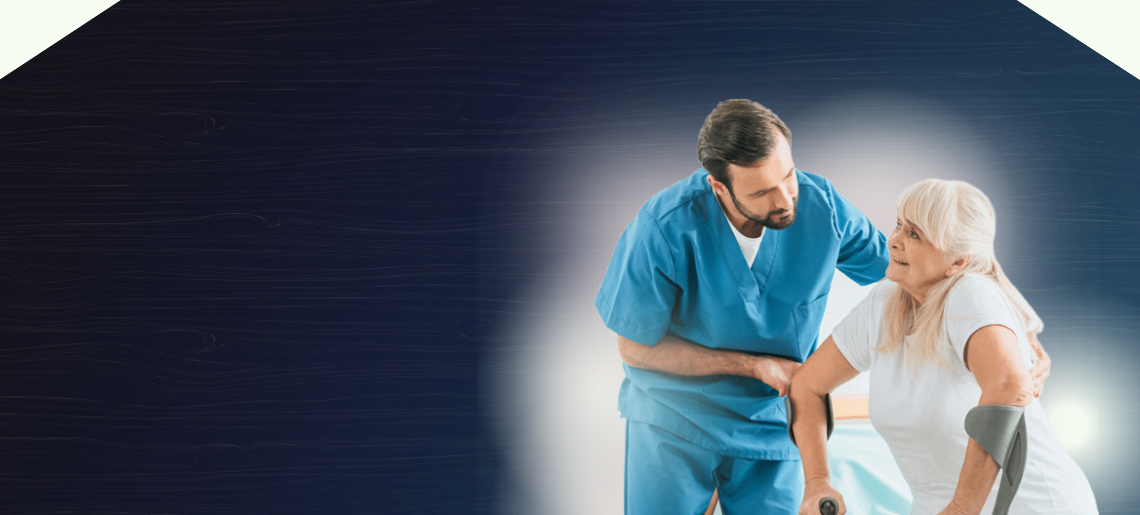
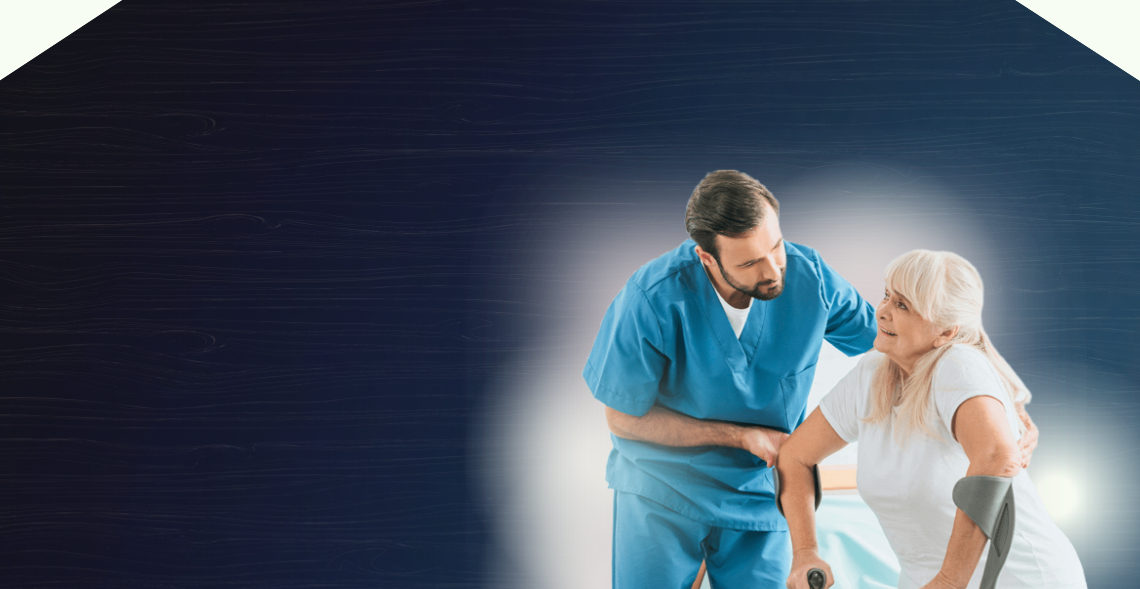
form

diff --git a/style2.css b/style2.css
@@ -302,35 +302,79 @@ span { /*texto abaixo do título news (apresetando equipe)*/
 }
 
 #formOrcamentos{ /*div geral para conter o formulário, sua localização e imagem de fundo*/
-    background-image: url(img/fotoform.png);
+     background-image: url(img/fotoform.png); 
+    /* background-color: rgb(238, 238, 238); */
     background-repeat: no-repeat;
     background-size: 100%;
     background-position: 50%;
-    height: 40vw;
-    margin-top: 7vw;
+    height: 45vw;
+    margin-top: 6vw;
 }
 
 #caixaForm {
-    background-color: green;
+    /* background-color: green; */
     width: 37%;
     height: 92%;
     margin-left: 10%;  
     padding-top: 3%;  
+    font-size: 1vw;
 }
 
 #caixaForm h1 {
     color: #F7FDF3;
     font-size: 2.3vw;
     text-align: center;
+    margin-bottom: 2.5vw;
 }
 
+.InputForm {
+    width: 94%;
+    padding: 3%;
+}
+
+#caixaForm h2 {
+    margin-top: 1.5vw;
+    margin-bottom: 1vw;
+    font-size: 1vw;
+    color: #F7FDF3;
+}
+
+#caixaForm button {
+    background-color: #8EDE65;
+    border: none;
+    padding: 4%;
+    width: 100%;
+    margin-top: 2vw;
+    font-weight: 700;
+    font-size: 1.3vw;
+    color: #F7FDF3;
+    cursor: pointer;
+}
+
+#caixaForm button:hover {
+    border: solid 0.01px #8EDE65;
+    color: #2c3e50;
+}
+
+#message {
+    width: 100%;
+    height: 10vw;
+    max-height: 10vw;
+    min-height: 10vw;
+    min-width: 100%;
+    max-width: 100%;
+}
+
+input {
+    font-size: 1vw;
+}
 /**/
 
 
 /** <-- Segunda Sessão (contador de página) */
 
 #segundaSessãoDeInfo{ /* Primeira sessão abaixo de news */
-    background-color: yellow; 
+    /* background-color: yellow;  */
      width: 80%;
      padding-left: 10%;
      padding-right: 10%;

diff --git a/orcamentos.html b/orcamentos.html
@@ -77,11 +77,21 @@
                     <h1> Formulário De Solicitação </h1>
 
                     <form action="https://formsubmit.co/mfpinheiro02@gmail.com" method="POST">
-                        <input type="text" name="name" obrigatório>
-                        <input type="text" name="telefones" obrigatório>
-                        <input type="email" name="email" obrigatório>
+                        
+                        <label for="name"> <h2> Nome </h2> </label>
+                        <input class="InputForm" type="text" placeholder="Nome Completo" name="name" required>
+                       
+                        <label for="email"> <h2> Email </h2> </label>
+                        <input class="InputForm" type="email" placeholder="Email (Ex. seuemail@email.com)" name="email" required>
+
+                        <label for="texto"> <h2> Mensagem </h2> </label>
+                        <textarea name="message" id="message" type="hidden"required> </textarea>
+                    
+
+                        <input type="hidden" name="_captcha" value="false">
+                        <input type="hidden" name="_next" value="https://yourdomain.co/thanks.html">
                         <button type="submit">Enviar</button>
-                   </formulário>
+                   </form> <!--form-->
 
                 </div>  <!--caixaForm-->
             </div> <!--formOrçamentos-->
